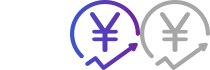
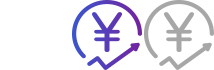
change the style of header menu change the sprite image of "our service"

diff --git a/public/main.css b/public/main.css
@@ -52,8 +52,8 @@ header ul li {
 	display: inline;
 	font-weight: bold;
 	margin-right: 20px;
-	padding-left: 5px;
-	padding-right: 5px;
+	padding-left: 15px;
+	padding-right: 15px;
 	padding-bottom: 3px;
 	cursor: pointer;
 }
@@ -67,22 +67,22 @@ header div.pop-menu {
 	border-radius: 10px;
 	background-color: #FFF;
 	box-shadow: 0px 1px 2px;
-	padding-left: 10px;
-	padding-right: 10px;
+	padding-left: 20px;
+	padding-right: 20px;
 	font-weight: bold;
 }
 
 header div.pop-menu div.item {
 	text-align: center;
 	padding-bottom: 3px;
-	margin-bottom: 7px;
+	margin-bottom: 10px;
 	cursor: pointer;
 }
 
 header div.pop-menu div.item:hover {
 	border-bottom: 3px solid #333;
 	border-image: linear-gradient(90deg, #365cd3, #7a1d9a) 30 30;
-	margin-bottom: 4px;
+	margin-bottom: 7px;
 }
 
 header div.pop-menu div.from {
@@ -97,7 +97,7 @@ header div#service-items {
 	display: none;
 	position: absolute;
 	float: left;
-	left: 94px;
+	left: 114px;
 	top: -5px;
 }
 
@@ -105,7 +105,7 @@ header div#tech-items {
 	display: none;
 	position: absolute;
 	float: left;
-	left: 400px;
+	left: 500.5px;
 	top: -5px;
 }
 
@@ -170,14 +170,25 @@ main div.ad-part span {
 	font-size: 30px;
 }
 
-main div.ad-part div.ad-bg1 {
-	background: url('png/ad_bg2.jpg') center center no-repeat;
+main div.ad-part div.ad-bg {
 	width: 100%;
 	height: 700px;
 	display: flex;
 	flex-direction: column;
 	align-items: center;
 	justify-content: center;
+}
+
+main div.ad-part div.ad-bg#ad-bg1 {
+	background: url('png/ad_bg1.jpg') top center no-repeat;
+}
+
+main div.ad-part div.ad-bg#ad-bg2 {
+	background: url('png/ad_bg2.jpg') center center no-repeat;
+}
+
+main div.ad-part div.ad-bg#ad-bg3 {
+	background: url('png/ad_bg3.jpg') center center no-repeat;
 }
 
 main div.ad-part div.select-part {
@@ -282,11 +293,11 @@ main div.service div.feature div.item div.img-container#a {
 }
 
 main div.service div.feature div.item div.img-container#a:hover {
-	background: url('/png/service_icon1.png') no-repeat -70px 5px;
+	background: url('/png/service_icon1.png') no-repeat -72px 5px;
 }
 
 main div.service div.feature div.item div.img-container#a:active {
-	background: url('/png/service_icon1.png') no-repeat -140px 5px;
+	background: url('/png/service_icon1.png') no-repeat -144px 5px;
 }
 
 main div.service div.feature div.item div.img-container#b {
@@ -294,11 +305,11 @@ main div.service div.feature div.item div.img-container#b {
 }
 
 main div.service div.feature div.item div.img-container#b:hover {
-	background: url('/png/service_icon2.png') no-repeat -70px 0;
+	background: url('/png/service_icon2.png') no-repeat -72px 0;
 }
 
 main div.service div.feature div.item div.img-container#b:active {
-	background: url('/png/service_icon2.png') no-repeat -140px 0;
+	background: url('/png/service_icon2.png') no-repeat -144px 0;
 }
 
 
@@ -307,11 +318,11 @@ main div.service div.feature div.item div.img-container#c {
 }
 
 main div.service div.feature div.item div.img-container#c:hover {
-	background: url('/png/service_icon3.png') no-repeat -70px 10px;
+	background: url('/png/service_icon3.png') no-repeat -72px 10px;
 }
 
 main div.service div.feature div.item div.img-container#c:active {
-	background: url('/png/service_icon3.png') no-repeat -140px 10px;
+	background: url('/png/service_icon3.png') no-repeat -144px 10px;
 }
 
 main div.service div.feature div.item div.img-container#d {
@@ -319,11 +330,11 @@ main div.service div.feature div.item div.img-container#d {
 }
 
 main div.service div.feature div.item div.img-container#d:hover {
-	background: url('/png/service_icon4.png') no-repeat -70px 0;
+	background: url('/png/service_icon4.png') no-repeat -72px 0;
 }
 
 main div.service div.feature div.item div.img-container#d:active {
-	background: url('/png/service_icon4.png') no-repeat -140px 0;
+	background: url('/png/service_icon4.png') no-repeat -144px 0;
 }
 
 main div.service div.feature div.item div.img-container:hover {

diff --git a/view/activity/list.html b/view/activity/list.html
@@ -2,62 +2,26 @@
 <div class="container activity">
 	<div class="main-act">
 		<div class="second">
-			<h1>区块链来了！传统产业人的焦虑与培训市场的“陷阱”</h1>
-			<p>互联网风风火火二十多年来，去年还在热烈讨论共享经济，今年就被区块链的概念盖过了风头。</p>
+			<h1><%= header.title %></h1>
+			<p><%= header.text %></p>
 		</div>
 	</div>
 	<div class="current-activity">
+		<% current_list.forEach(function (item) {%>
 		<div class="activity-item">
-			<div class="img" id="img1"></div>
-			<p><a href="/techpost/activity/1">2018-07-03 Linker月度读书会</a></p>
+			<div class="img" style="background: url('<%= item.intro_img %>') no-repeat center center"></div>
+			<p><a href="<%= item.link %>"><%= item.title %></a></p>
 		</div>
-		<div class="activity-item">
-			<div class="img" id="img2"></div>
-			<p><a>2018-06-27 链客数据博物馆启动</a></p>
-		</div>
-		<div class="activity-item">
-			<div class="img" id="img3"></div>
-			<p><a>2018-06-08 科技与生活交织的我们</a></p>
-		</div>
-		<div class="activity-item">
-			<div class="img" id="img4"></div>
-			<p><a>2018-05-22 深圳区块链行业座谈会</a></p>
-		</div>
-		<div class="activity-item">
-			<div class="img" id="img5"></div>
-			<p><a>我是活动的第一位</a></p>
-		</div>
-		<div class="activity-item">
-			<div class="img" id="img6"></div>
-			<p><a>我是活动的候选词条第二位</a></p>
-		</div>
-		<div class="activity-item">
-			<div class="img" id="img7"></div>
-			<p><a>我是活动的候选词条第三位</a></p>
-		</div>
-		<div class="activity-item">
-			<div class="img" id="img8"></div>
-			<p><a>我是活动的候选词条第N位</a></p>
-		</div>
+		<% }) %>
 	</div>
 	<h2><span>往期活动&nbsp;&nbsp;&nbsp;</span></h2>
 	<div class="past-activity">
+		<% past_list.forEach(function (item) { %>
 		<div class="activity-item">
-			<div class="img" id="img1"></div>
-			<p><a href="/techpost/activity/1">2018-07-03 Linker月度读书会</a></p>
+			<div class="img" id="img1" style="background: url('<%= item.intro_img %>') no-repeat center center"></div>
+			<p><a href="<%= item.link %>"><%= item.title %></a></p>
 		</div>
-		<div class="activity-item">
-			<div class="img" id="img2"></div>
-			<p><a>2018-06-27 链客数据博物馆启动</a></p>
-		</div>
-		<div class="activity-item">
-			<div class="img" id="img3"></div>
-			<p><a>2018-06-08 科技与生活交织的我们</a></p>
-		</div>
-		<div class="activity-item">
-			<div class="img" id="img4"></div>
-			<p><a>2018-05-22 深圳区块链行业座谈会</a></p>
-		</div>
+		<% }) %>
 	</div>
 </div>
 </main>

diff --git a/public/js/ad.js b/public/js/ad.js
@@ -1,0 +1,36 @@
+var bg1 = document.getElementById('bg1'),
+	bg2 = document.getElementById('bg2'),
+	bg3 = document.getElementById('bg3'),
+	ad_bg1 = document.getElementById('ad-bg1'),
+	ad_bg2 = document.getElementById('ad-bg2'),
+	ad_bg3 = document.getElementById('ad-bg3'),
+	hide_all = function () {
+		ad_bg1.style.display = 'none';
+		ad_bg2.style.display = 'none';
+		ad_bg3.style.display = 'none';
+		bg1.classList.remove("selected");
+		bg2.classList.remove("selected");
+		bg3.classList.remove("selected");
+	};
+	
+hide_all();
+bg2.classList.add("selected");
+ad_bg2.style.display = 'flex';
+	
+bg1.addEventListener('click', function () {
+	hide_all();
+	bg1.classList.add("selected");
+	ad_bg1.style.display = 'flex';
+});
+
+bg2.addEventListener('click', function () {
+	hide_all();
+	bg2.classList.add("selected");
+	ad_bg2.style.display = 'flex';
+});
+
+bg3.addEventListener('click', function () {
+	hide_all();
+	bg3.classList.add("selected");
+	ad_bg3.style.display = 'flex';
+});

diff --git a/public/js/header.js b/public/js/header.js
@@ -6,20 +6,20 @@ var index = document.getElementById('index'),
 	totop = document.getElementById('totop');
 	
 // 服务
-service.addEventListener('click', function (e) {
+service.addEventListener('mouseenter', function (e) {
 	service_items.style.display = 'block';
 });
 
-service_items.addEventListener('click', function (e) {
+service_items.addEventListener('mouseleave', function (e) {
 	service_items.style.display = 'none';
 });
 
 // 活动
-tech.addEventListener('click', function (e) {
+tech.addEventListener('mouseenter', function (e) {
 	tech_items.style.display = 'block';
 });
 
-tech_items.addEventListener('click', function (e) {
+tech_items.addEventListener('mouseleave', function (e) {
 	tech_items.style.display = 'none';
 });
 
@@ -34,6 +34,6 @@ window.addEventListener('scroll', function () {
 
 // 返回页首
 totop.addEventListener('click', function (e) {
-	scroll(0, 0);
+	scrollTo({"behavior": "smooth", "top": 0});
 	totop.style.display = 'none';
 });

diff --git a/routerFunc.js b/routerFunc.js
@@ -94,7 +94,7 @@ var	routeFunc = function () {
 			topic: async function (ctx) {
 				let id = ctx.params.id;
 				if (id === 'list') {
-					let post_list = require('./data/topic_list');
+					let post_list = require('./data/topic_list.json');
 					let template = {
 						layout: 'techpost_template'
 					}
@@ -122,11 +122,14 @@ var	routeFunc = function () {
 			activity: async function (ctx) {
 				let id = ctx.params.id;
 				if (id === 'list') {
-					await ctx.render('activity/list', {
+					let post_list = require('./data/activity_list.json');
+					let template = {
 						layout: 'techpost_template'
-					});
+					}
+					let final_temp = Object.assign(post_list, template);
+					await ctx.render('activity/list', final_temp);
 				} else {
-					let post = require('./data/activity_post.js');
+					let post = require('./data/activity_post.json');
 					if (post[id - 1] === undefined) {
 						await ctx.render('404', {
 							layout: 'simple' 

diff --git a/view/index_ad.html b/view/index_ad.html
@@ -1,13 +1,14 @@
 <div class="container ad-part">
-	<div class="ad-bg1">
+	<div class="ad-bg" id="ad-bg1"></div>
+	<div class="ad-bg" id="ad-bg2">
 		<h1>北京大学区块链总裁班</h1>
 		<span>业内一线权威专家倾情授课</span>
 	</div>
-	<div class="ad-bg2"></div>
-	<div class="ad-bg3"></div>
+	<div class="ad-bg" id="ad-bg3"></div>
 	<div class="select-part">
-		<span class="selected bg" id='bg1'></span>
-		<span class="bg" id='bg2'></span>
+		<span class="bg" id='bg1'></span>
+		<span class="selected bg" id='bg2'></span>
 		<span class="bg" id='bg3'></span>
 	</div>
 </div>
+<script src="/js/ad.js"></script>

diff --git a/view/index_cooperation.html b/view/index_cooperation.html
@@ -13,7 +13,9 @@
 			<div id="coop3"></div>
 		</div>
 		<div class="container">
+			<a href="/techpost">
 			<div id="coop4"></div>
+			</a>
 		</div>
 	</div>
 </div>

diff --git a/view/header.html b/view/header.html
@@ -33,4 +33,5 @@
 			<img src="/png/totop.png" />
 		</div>
 	</div>
+	<script src="/js/header.js"></script>
 </header>

diff --git a/view/template.html b/view/template.html
@@ -11,5 +11,4 @@
 	<%- body -%>
 	<%- include('footer') -%>
 </body>
-<script src="/js/header.js"></script>
 </html>
